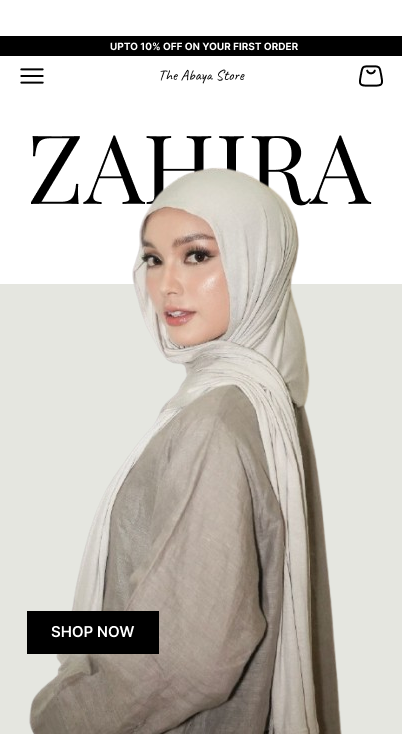
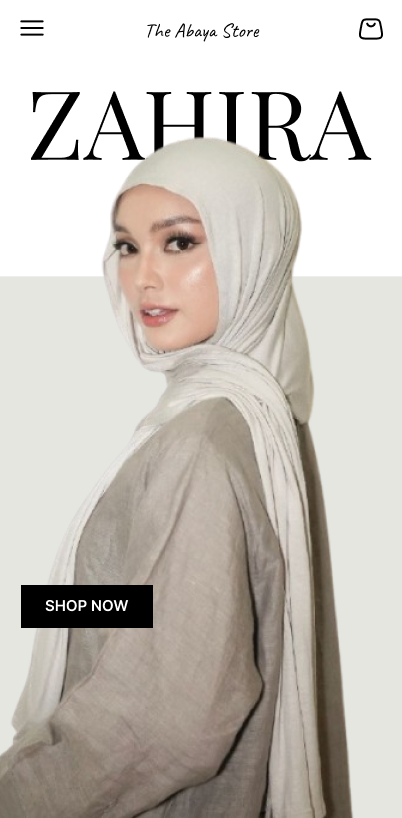
changes

diff --git a/client/src/components/showcase.jsx b/client/src/components/showcase.jsx
@@ -9,9 +9,9 @@ const portfolioData = [
   },
   {
     id: 2,
-    title: "Minimal Skincare Website",
+    title: "Car Booking Website",
     category: "UI/UX Design",
-    image: "/Skincare Minimal Website.png",
+    image: "/car.png",
   },
   {
     id: 3,
@@ -93,9 +93,8 @@ export default function WorkShowcaseAutoSlide() {
       rafRef.current = requestAnimationFrame(tick);
     }, 50);
 
-    // --- Drag handlers ---
     const onMouseDown = (e) => {
-      e.preventDefault(); // 🔥 FIX
+      e.preventDefault();
       isDraggingRef.current = true;
       isPausedRef.current = true;
       dragStartXRef.current = e.clientX;
@@ -108,7 +107,7 @@ export default function WorkShowcaseAutoSlide() {
 
     const onMouseMove = (e) => {
       if (!isDraggingRef.current) return;
-      e.preventDefault(); // 🔥 FIX
+      e.preventDefault();
 
       const dx = e.clientX - dragStartXRef.current;
       positionRef.current = dragStartPosRef.current + dx;
@@ -172,6 +171,7 @@ export default function WorkShowcaseAutoSlide() {
     const onMouseEnter = () => {
       if (!isDraggingRef.current) isPausedRef.current = true;
     };
+
     const onMouseLeave = () => {
       if (!isDraggingRef.current) {
         isPausedRef.current = false;
@@ -208,8 +208,6 @@ export default function WorkShowcaseAutoSlide() {
 
   return (
     <div className="w-full py-20 bg-white overflow-hidden select-none">
-      {" "}
-      {/* 🔥 FIX */}
       <div className="max-w-7xl mx-auto px-4 mb-12">
         <h2 className="text-4xl md:text-5xl font-bold text-gray-900 mb-4">
           Selected Works
@@ -218,41 +216,33 @@ export default function WorkShowcaseAutoSlide() {
           Crafting digital experiences that inspire and engage
         </p>
       </div>
+
       <div className="relative overflow-hidden pl-6">
         <div
           ref={trackRef}
-          className="flex gap-6 will-change-transform select-none" // 🔥 FIX
+          className="flex gap-6 will-change-transform select-none"
           style={{ transform: "translate3d(0,0,0)" }}
         >
           {duplicatedData.map((item, index) => (
             <div
               key={`${item.id}-${index}`}
-              className="flex-shrink-0 w-64 group select-none" // 🔥 FIX
+              className="flex-shrink-0 w-64 group select-none"
             >
               <div
                 className="relative bg-black rounded-3xl p-2 shadow-2xl"
                 style={{ width: "256px", height: "520px" }}
               >
-                <div
-                  className="absolute bg-black rounded-full z-20"
-                  style={{
-                    top: "12px",
-                    left: "50%",
-                    transform: "translateX(-50%)",
-                    width: "80px",
-                    height: "20px",
-                  }}
-                />
-
-                <div className="relative w-full h-full rounded-2xl overflow-hidden bg-white pt-8">
+                <div className="relative w-full h-full rounded-2xl overflow-hidden bg-white">
                   <img
                     src={item.image}
                     alt={item.title}
-                    className="w-full h-full object-cover pointer-events-none select-none" // 🔥 FIX
+                    className="w-full h-full object-cover pointer-events-none select-none"
                     loading="lazy"
                     draggable={false}
                   />
+
                   <div className="absolute inset-0 bg-black opacity-0 group-hover:opacity-30 transition-opacity duration-300 z-10" />
+
                   <div className="absolute inset-0 flex items-center justify-center z-20 pointer-events-none">
                     <div className="opacity-0 group-hover:opacity-100 transition-opacity duration-300 text-white text-center px-4">
                       <p className="text-xs font-medium mb-1">
